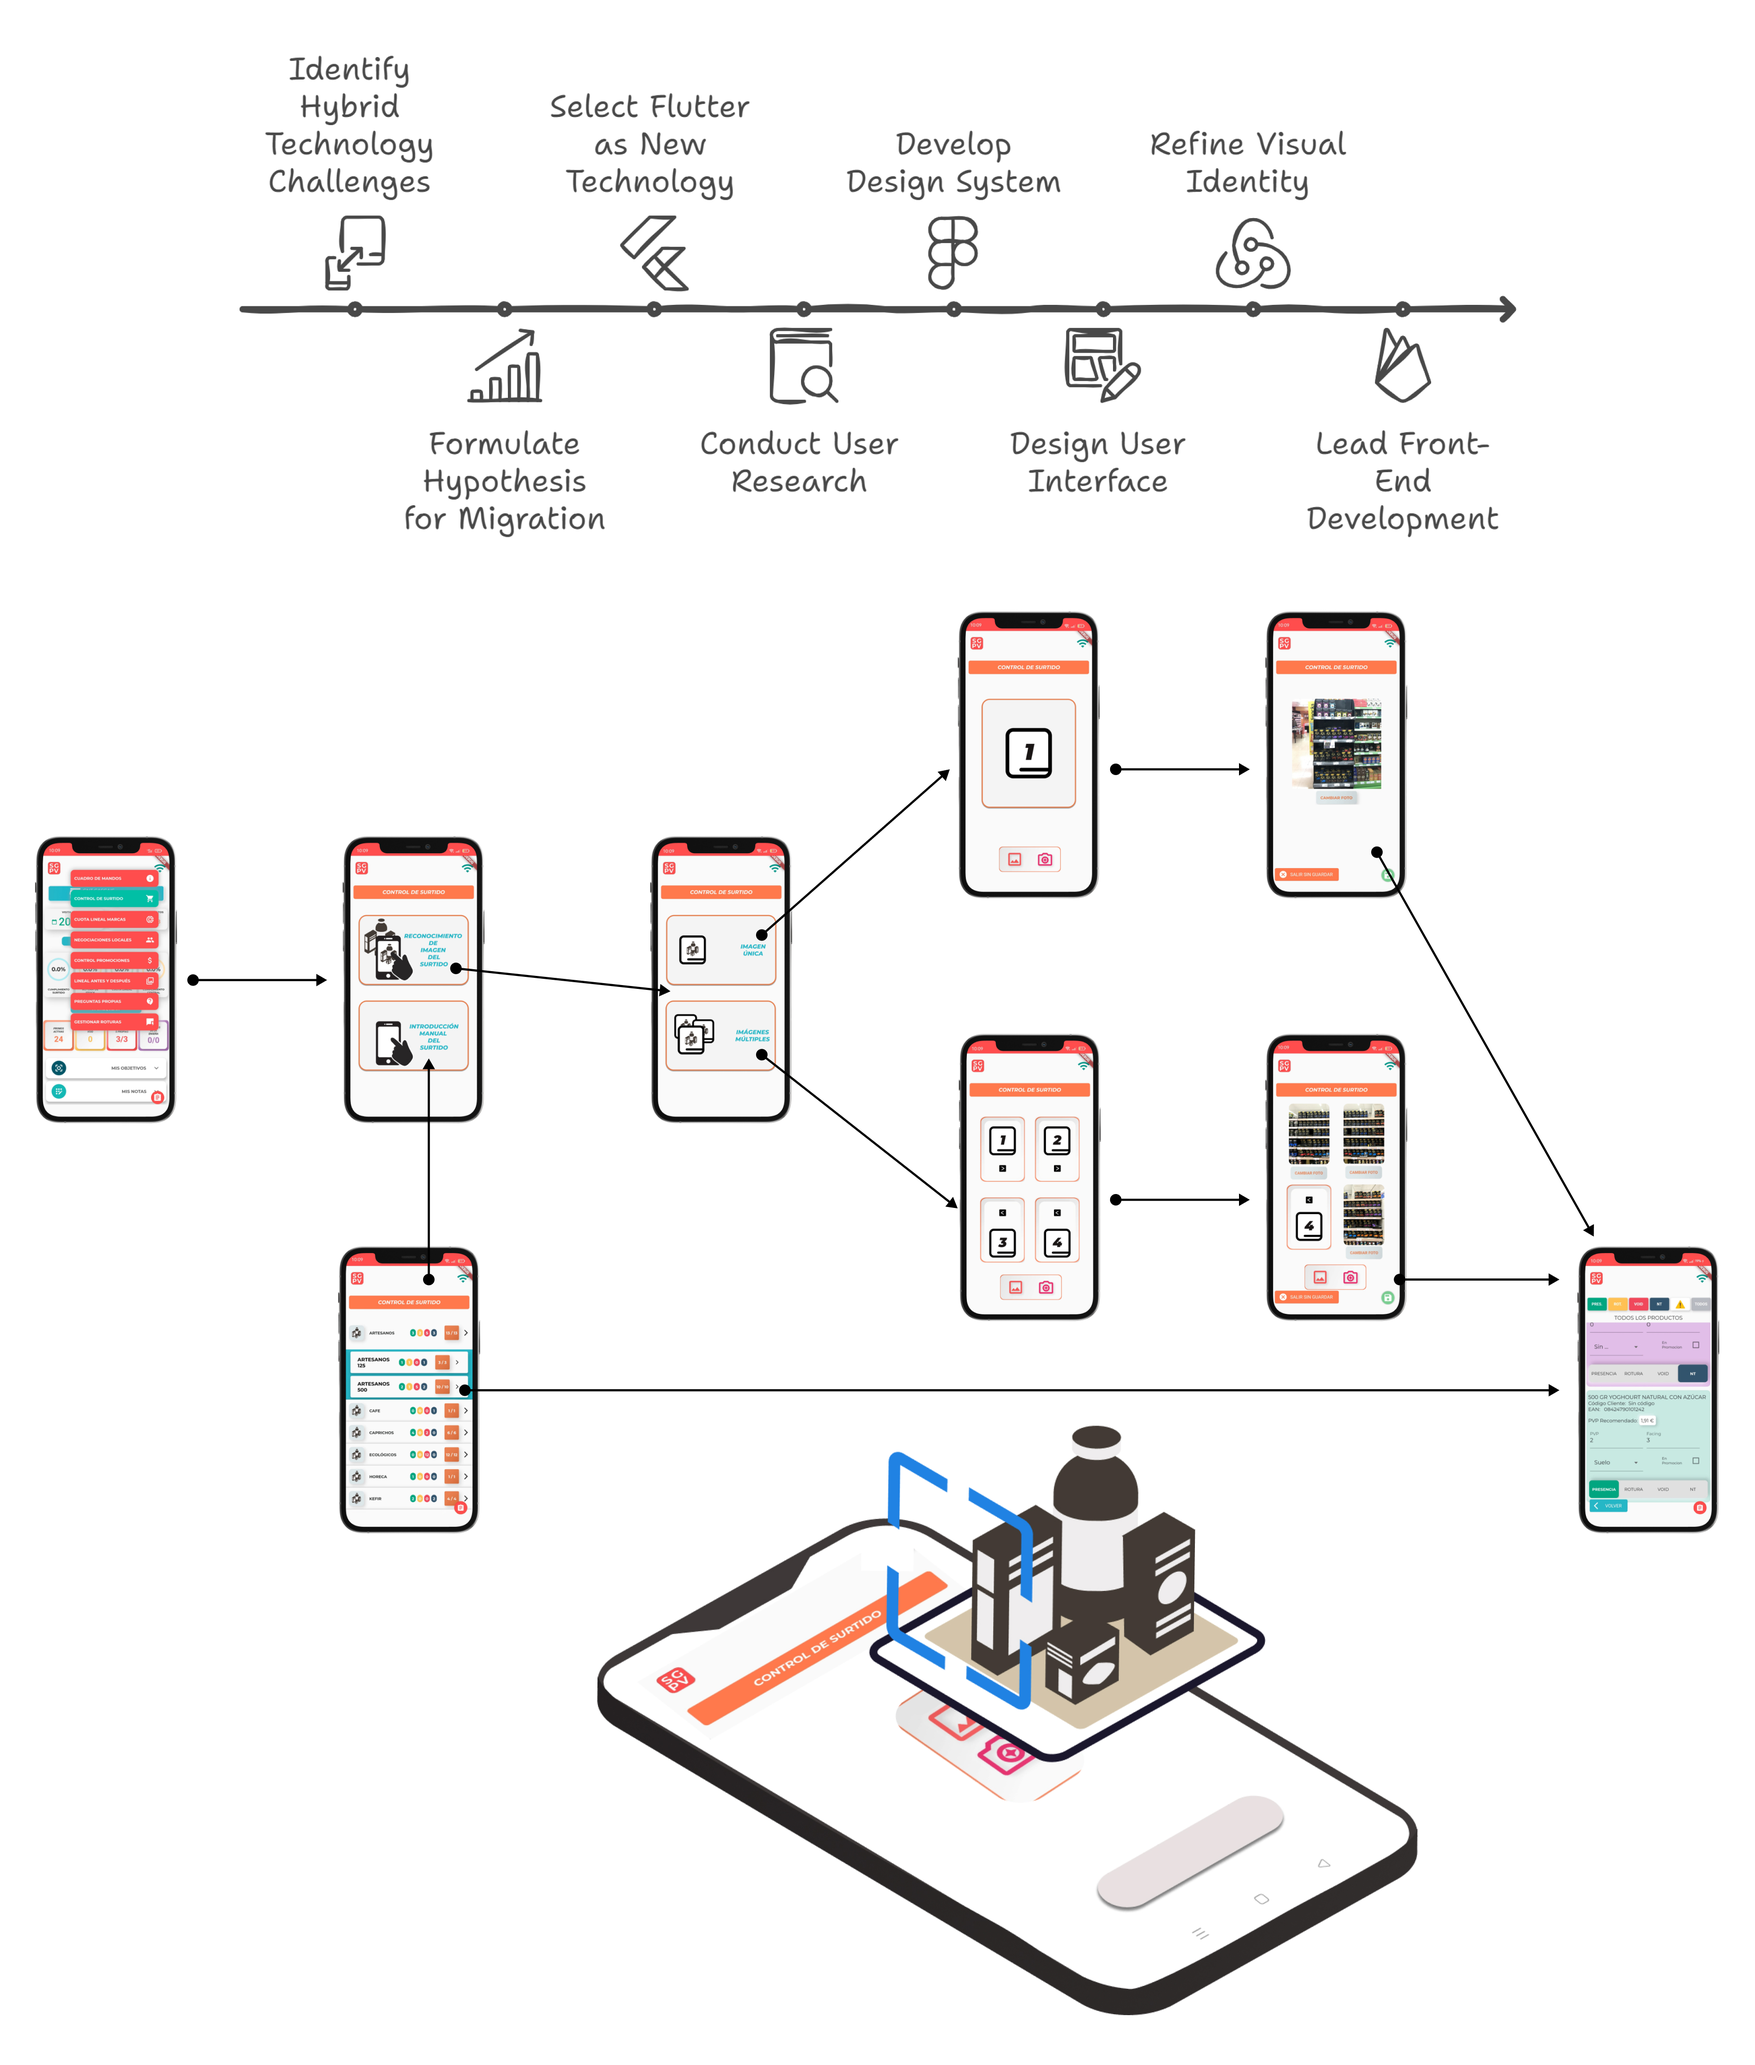
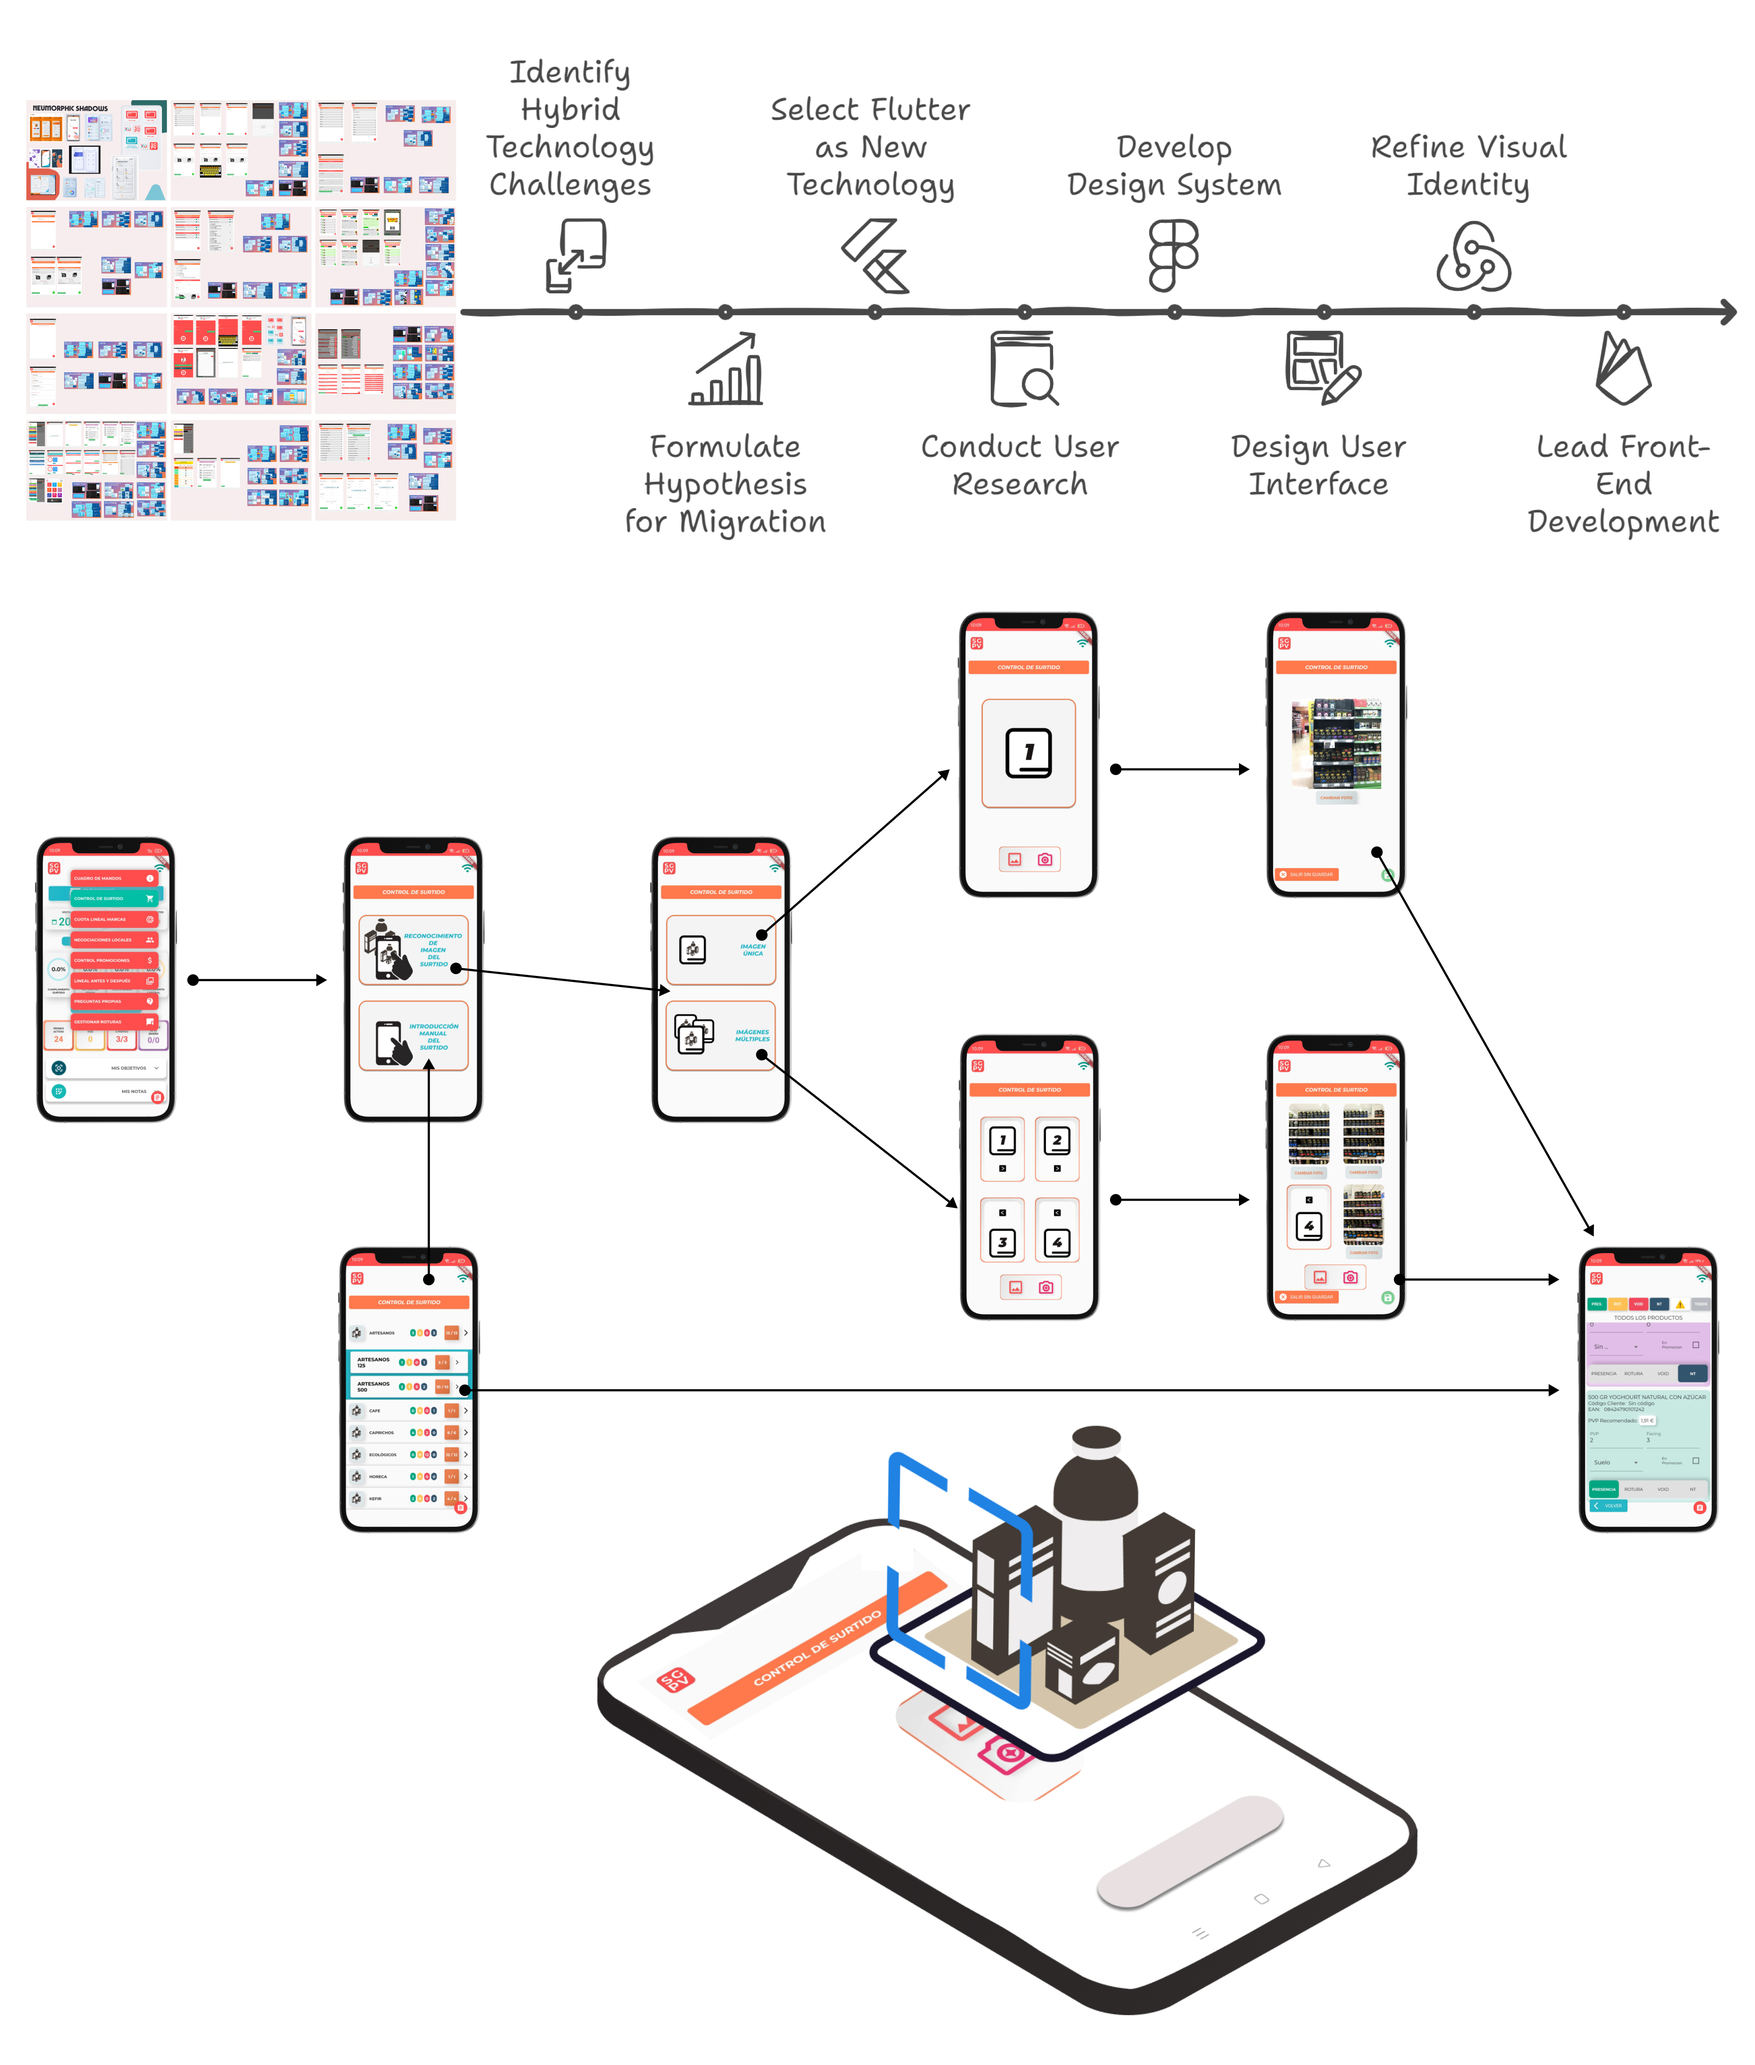
sgpv 6 with img

Changed region(s): [[0.0, 0.0311, 0.8403, 0.2799], [0.7781, 0.0622, 0.9959, 0.2799], [0.4357, 0.0311, 0.4668, 0.0622]]

diff --git a/portfolio-5-sgpvPhoneG.html b/portfolio-5-sgpvPhoneG.html
@@ -110,34 +110,35 @@
 
         <div class="portfolio-single-wrap unslate_co--section" id="portfolio-single-section">
           <div class="portfolio-single-inner">
-            <h2 class="heading-portfolio-single-h2">Re-styling Online Back Office</h2>
+            <h2 class="heading-portfolio-single-h2">Re-styling Mobile App SGPV 6.0.0 (PhoneGap)</h2>
 
             <div class="case-study-container">
               <div class="phase">
-                <div class="imageC"><a href="images/backOf/Portal-1.png" data-fancybox="gal"> <img
-                      src="images/backOf/Portal-1.png" alt="old & new ui" class="img-fluid"> </a></div>
+                <div class="imageC"><a href="images/sgpv6/sgpv6-1.jpg" data-fancybox="gal"> <img
+                      src="images/sgpv6/sgpv6-1.jpg" alt="old & new ui" class="img-fluid"> </a></div>
                 <div class="text phaseB1">
                   <div class="logo-casestudy ">
                     <h3>Overview</h3>
-                    <img src="images/xpc/logo_xpc.png" alt="logo xpc" class="image-logo">
+                    <img src="images/sgpv6/sgpv6.png" alt="logo xpc" class="image-logo">
                   </div>
-                  <p>The Online Back Office portals were a collection of client-specific web solutions that required a
-                    unified approach for better scalability and maintainability. </br>
-                    Each portal had developed unique differences due to extensive product customization, making them
-                    inefficient and difficult to scale. A consistent solution was necessary to address the design and
-                    development challenges while preserving the customization needed for each client.</p>
+                  <p>The SGPV App, originally developed as a cross-platform B2B tool for tablets, underwent a major
+                    re-styling aimed at making it fully responsive and scalable across both tablets and mobile
+                    devices</br>
+                    Moving from version 5 to version 6, the app’s redesign allowed it to serve over 15 clients with
+                    tailored solutions while reducing the company’s reliance on tablet hardware, thereby cutting costs.
+                  </p>
                   <h3>The Problem</h3>
-                  <p> The heavy customization for each client created inconsistencies across the portals, making it
-                    impossible to scale or update them uniformly.</br>
-                    Maintaining separate designs and code for each portal increased development time and complexity.
-                    Additionally, clients expected frequent updates, and the
-                    process was becoming increasingly unsustainable without a cohesive system.</p>
+                  <p> The app had been customized extensively for each client, resulting in multiple versions that were
+                    difficult to update and manage. </br>
+                    Additionally, the app was built for tablet use, forcing clients to invest in tablets for their
+                    workforce. As smartphone usage grew, the app’s lack of mobile responsiveness became a critical
+                    issue, impacting usability and increasing operational costs.</p>
                   <h3>Hypothesis</h3>
-                  <p>It was hypothesized that concentrating changes in a single CSS file and a shared image folder could
-                    streamline the development process.
-                    By making updates centrally through these resources, we could apply changes across all 15 portals
-                    simultaneously. This approach would reduce redundant work, maintain the individual look and feel for
-                    each client, and improve the scalability of the system without compromising on customization.</p>
+                  <p>By re-styling the app to make it fully responsive and scalable, the company could eliminate the
+                    need for tablet-only usage, enabling clients to run the app on smartphones. This would provide
+                    significant cost savings and operational flexibility. The focus on a centralized design system,
+                    primarily targeting the main CSS and icons, would also streamline updates and ensure faster
+                    deployment across all clients..</p>
 
                 </div>
               </div>
@@ -146,46 +147,54 @@
                 <div class="text phaseB2">
                   <h3>Role & Responsibilities </h3>
                   <ul>
-                    <li><strong><b>Graphic Design:</b></strong> created a unified set of icons and images that could be
-                      used across multiple portals to maintain visual consistency while allowing for customization where
-                      needed.</li>
-                    <li><strong><b>Front-End Development:</b></strong> led the restructuring of the CSS architecture,
-                      ensuring that changes made at the core level could be efficiently propagated to all client portals
-                      via Git.</li>
+                    <li><strong><b>User Interface Design:</b></strong> created updated mockups and improved the UI to
+                      ensure a smooth and responsive experience on both tablets and smartphones.</li>
+                    <li><strong><b>Graphic Design:</b></strong> produced a set of universal icons and images to maintain
+                      consistency across client versions while allowing for minor customization where needed.</li>
+                    <li><strong><b>Graphic Design:</b></strong> led the front-end re-styling, ensuring
+                      the app was fully responsive and scalable for mobile devices.</li>
                   </ul>
                   <h3>Technologies</h3>
-                  <p> Figma - Bootstrap 4 - CSS3</p>
+                  <p> Figma -HTML5 - Bootstrap 4 - CSS3 - JavaScript - PhoneGap</p>
 
                 </div>
-                <div class="imageC"><a href="images/backOf/Portal-2.png" data-fancybox="gal"><img
-                      src="images/backOf/Portal-2.png" alt="old and new UI" class="img-fluid"> </a></div>
+                <div class="imageC"><a href="images/sgpv6/sgpv6-2.jpg" data-fancybox="gal"><img
+                      src="images/sgpv6/sgpv6-2.jpg" alt="old and new UI" class="img-fluid"> </a></div>
               </div>
 
               <div class="phase">
-                <div class="imageC"> <a href="images/backOf/Portal-3.jpg" data-fancybox="gal"><img
-                      src="images/backOf/Portal-3.jpg" alt="old and new UI" class="img-fluid"> </a></div>
+                <div class="imageC"> <a href="images/sgpv6/sgpv6-3.png" data-fancybox="gal"><img
+                      src="images/sgpv6/sgpv6-3.png" alt="old and new UI" class="img-fluid"> </a></div>
 
                 <div class="text phaseB3">
                   <h3>Output</h3>
                   <ul>
-                    <li><strong><b>Code Reuse:</b></strong> Achieved a 99% reuse of the existing code, significantly
-                      reducing development time and complexity.</li>
-                    <li><strong><b>Efficiency:</b></strong> Updates could now be deployed simultaneously across all 15
-                      portals with minimal effort, improving scalability and reducing the time required for future
-                      enhancements.</li>
-                    <li><strong><b>Client Satisfaction:</b></strong> The clients welcomed the changes, as they continued
-                      to receive personalized solutions without the delays caused by managing multiple distinct versions
-                      of the back office. The unified system also allowed for quicker updates and bug fixes across all
-                      platforms.</li>
+                    <li><strong><b>Scalability:</b></strong> The app was successfully re-styled and deployed across more
+                      than 15 clients, with consistent updates possible across all versions with minimal effort.</li>
+                    <li><strong><b>Cost Savings:</b></strong> by making the app fully functional on smartphones, clients
+                      no longer needed to purchase tablets, resulting in a 20% reduction in hardware costs.</li>
+                    <li><strong><b>Development Efficiency:</b></strong> by focusing the re-styling efforts on the main
+                      CSS and icon sets, changes made for one client were quickly tested and deployed to others. This
+                      streamlined the deployment process, improving efficiency by 80% and effectively bypassing years of
+                      legacy code.
+                    </li>
+                    <li><strong><b>Development Efficiency:</b></strong> by focusing the re-styling efforts on the main
+                      CSS and icon sets, changes made for one client were quickly tested and deployed to others. This
+                      streamlined the deployment process, improving efficiency by 80% and effectively bypassing years of
+                      legacy code.
+                    </li>
+                    <li><strong><b>Development Speed:</b></strong> centralized design and development allowed for future
+                      updates to be implemented 25% faster than before, with minimal disruption to existing clients.
+                    </li>
+                    <li><strong><b>User Satisfaction:</b></strong> The redesigned, responsive app was better suited to
+                      client needs, resulting in a 15% improvement in overall user satisfaction.
+                    </li>
                   </ul>
-                  </p>
+                  <p>This re-styling project not only delivered a scalable and cost-effective solution but also laid the
+                    groundwork for the future development of SGPV version 7.</p>
 
                 </div>
               </div>
-
-
-
-
 
             </div>
 

diff --git a/css/style.css b/css/style.css
@@ -1525,6 +1525,9 @@ a:hover {
 
 .filter-wrap .filter a.active {
   color: #000;
+  text-decoration: underline !important;
+  text-decoration-color: #ffc107 !important;
+  text-decoration-style: double !important;
 }
 
 @media (max-width: 991.98px) {
